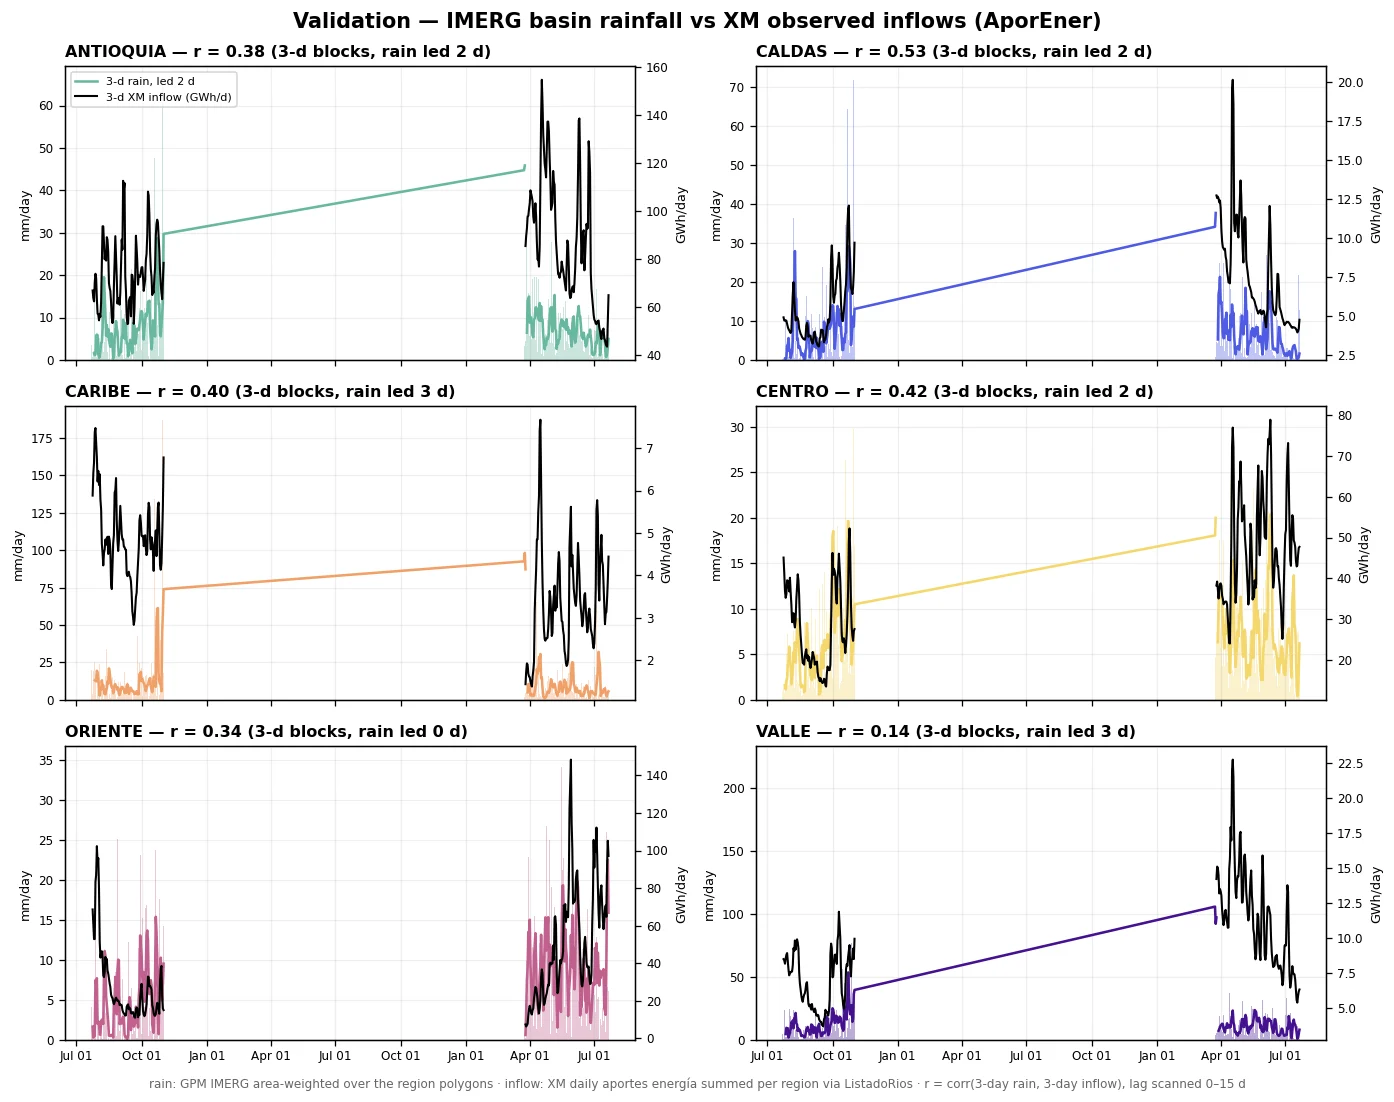
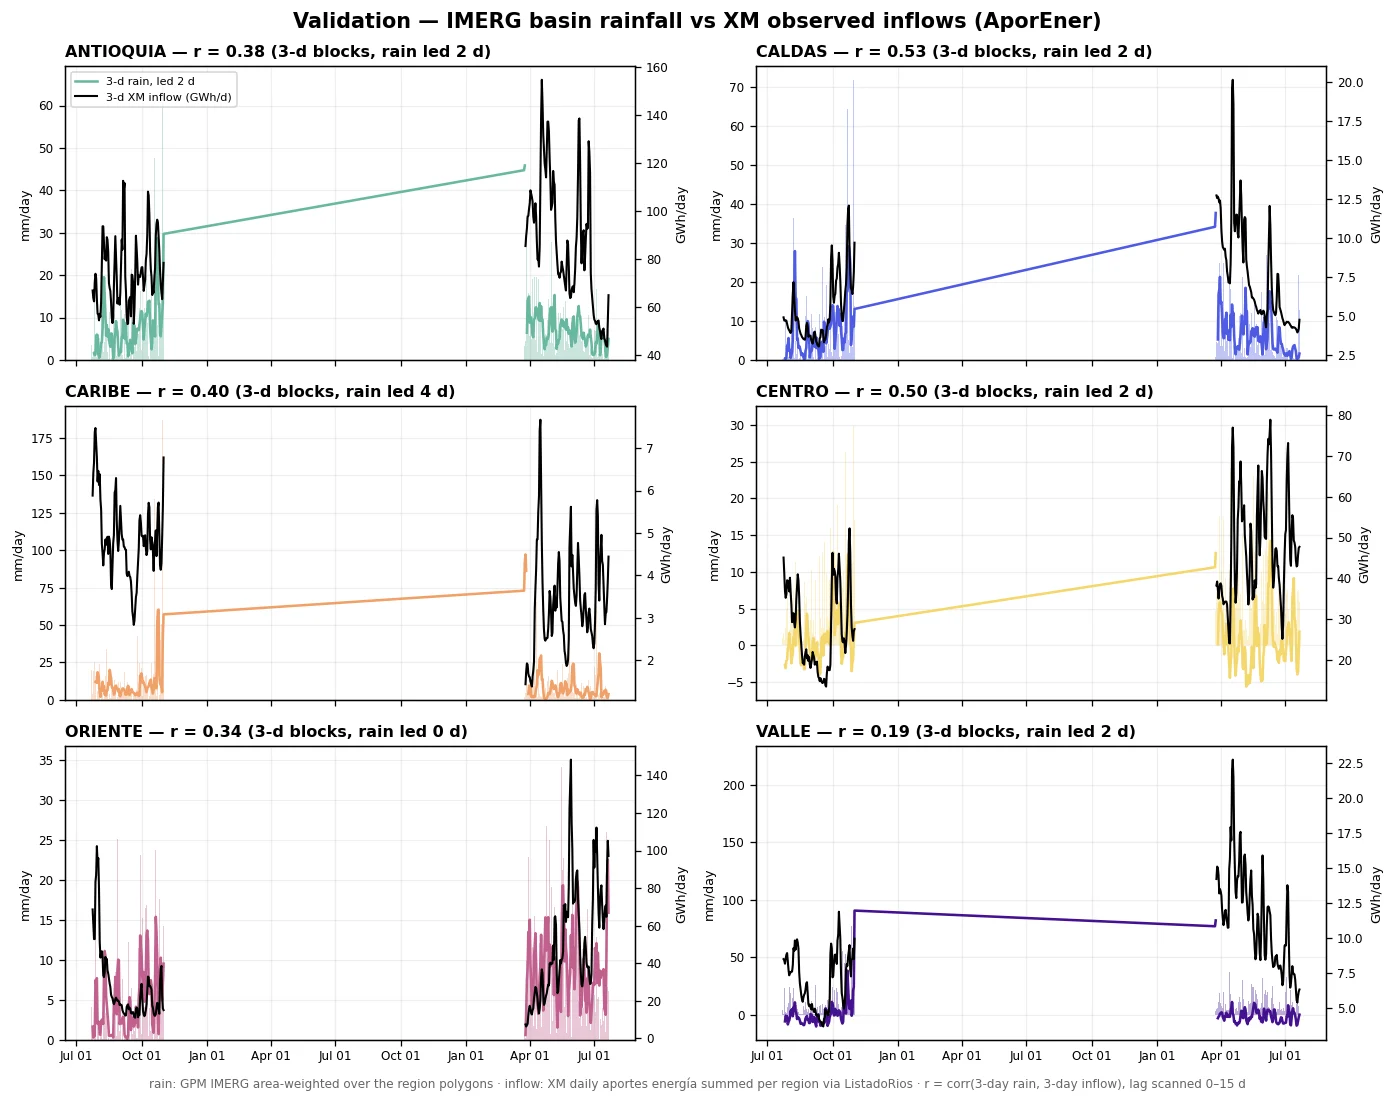
Colombia hydro: terrain map + anomaly/burst validation variants
Topo underlay (NOAA DEM mosaic, hillshaded) behind the basins map.
Validation now tests raw vs seasonal-anomaly vs burst-threshold rain per
region: anomalies win Centro (0.42->0.50), raw wins the 2-season-limited
regions, and no burst threshold beats plain totals — no light-rain
dead-band detectable at 3-day scale yet.

diff --git a/colombia_hydro/index.html b/colombia_hydro/index.html
@@ -68,9 +68,9 @@ daily. Rain here today is turbine water in the coming weeks.</p>
 <div class="chips" id="chips"></div>
 
 <div class="cols">
-  <div class="panel"><img src="xm_regions_map.webp?v=202607231058"
+  <div class="panel"><img src="xm_regions_map.webp?v=202607231114"
     alt="Map of XM hydrological regions built from IDEAM subzonas"></div>
-  <div class="panel"><img src="xm_regions_departments.webp?v=202607231058"
+  <div class="panel"><img src="xm_regions_departments.webp?v=202607231114"
     alt="Department-scale display view of the XM regions with true basins outlined">
     <p class="note" style="margin:8px 4px 2px">Two views of the same regions: the
     <b>contributing basins</b> (left — used for all rainfall averaging on this page) and the
@@ -81,6 +81,14 @@ daily. Rain here today is turbine water in the coming weeks.</p>
 <h2>Basin rainfall, daily</h2>
 <div class="panel"><img src="/assets/sst/colombia_region_rain.webp"
   alt="Daily basin rainfall per XM region vs climatology"></div>
+
+<h2>The terrain that makes the system</h2>
+<p class="note">The same basins over elevation: all three cordilleras and both great
+valleys are visible, and the dams cluster exactly where rivers drop off the ranges —
+the eastern slope above the llanos (Oriente), the Magdalena's canyon exits (Centro),
+and Antioquia's dissected plateau.</p>
+<div class="panel"><img src="xm_regions_topo.webp?v=202607231116"
+  alt="XM hydro regions over shaded terrain"></div>
 
 <h2>The regions</h2>
 <p class="note">Membership exactly as returned by XM's public API (<code>ListadoRios</code>);
@@ -106,19 +114,22 @@ department-scale areas, but only these catchments actually convert rainfall into
 </div>
 
 <h2>Validation — does basin rain predict XM's measured inflows?</h2>
-<p class="note">3-day rainfall totals vs 3-day inflow-energy totals (<code>AporEner</code>, XM API, summed
-per region), cross-correlated at 0–15-day lags; sums never straddle gaps in the partial
-IMERG backfill. Lags are physically sensible — steep cordillera catchments respond within
-days, the Sinú and mid-Cauca in ~2–3. Inflow also carries baseflow memory, and <b>Valle's
-Salvajina series is regulation-dominated</b> (upstream operations, not rain, set much of
-its day-to-day inflow), so its correlation is structurally low. Current record
-(two seasons, backfill still extending): <b>Antioquia r=0.38 (2d) · Caldas r=0.53 (2d) · Caribe r=0.40 (3d) · Centro r=0.42 (2d) · Oriente r=0.34 (0d) · Valle r=0.14 (3d)</b>.</p>
-<div class="panel"><img src="validation_rain_vs_inflow.webp?v=202607231106"
+<p class="note">3-day rainfall totals vs 3-day inflow-energy totals (<code>AporEner</code>, XM API),
+cross-correlated at 0–15-day lags, in three flavours per region: <i>raw</i>, <i>anomaly</i>
+(both series minus their seasonal normals), and <i>burst</i> (rain above a fitted baseline
+threshold — testing whether steady light rain just holds soil/evap steady state while only
+downpours move inflow). Verdict so far: <b>anomalies win for Centro</b> (r 0.42→0.50 — the
+seasonal cycle was masking real coupling) and help Valle slightly; raw wins for
+Antioquia/Caldas/Oriente (two seasons is thin for anomaly fits); and <b>the burst threshold
+never beats a plain total</b> — at 3-day scale these basins convert rain roughly linearly,
+with no detectable light-rain dead-band yet. <b>Valle's Salvajina series remains
+regulation-dominated</b>. Best per region: <b>Antioquia r=0.38 (raw, 2d) · Caldas r=0.53 (raw, 2d) · Caribe r=0.40 (burst>1mm, 4d) · Centro r=0.50 (anom, 2d) · Oriente r=0.34 (raw, 0d) · Valle r=0.19 (anom, 2d)</b>.</p>
+<div class="panel"><img src="validation_rain_vs_inflow.webp?v=202607231116"
   alt="Validation: IMERG basin rainfall vs XM observed inflows per region"></div>
 <p class="note" style="margin-top:14px">The same relationship as scatter — every dot is one
 3-day block (rain shifted by the region's best lag). The slope is the region's effective
 rainfall-to-energy conversion; Valle's cloud shows the regulation flattening.</p>
-<div class="panel"><img src="validation_scatter.webp?v=202607231106"
+<div class="panel"><img src="validation_scatter.webp?v=202607231116"
   alt="Scatter: 3-day basin rain vs 3-day XM inflow per region"></div>
 
 <h2>Data downloads</h2>

diff --git a/scripts/sst/validate_region_rain.py b/scripts/sst/validate_region_rain.py
@@ -118,24 +118,51 @@ def main() -> int:
             return out
 
         r3, i3 = roll3(rr), roll3(np.where(ok, ii, np.nan))
-        # lag scan: 3-day rain ending at t-lag vs 3-day inflow ending at t
-        best = (0, 0.0)
-        for lag in range(0, 16):
-            rs = np.roll(r3, lag); rs[:lag] = np.nan
-            m = np.isfinite(rs) & np.isfinite(i3) & (np.roll(seg_id, lag) == seg_id)
-            if m.sum() > 30:
-                c = float(np.corrcoef(rs[m], i3[m])[0, 1])
-                if c > best[1]:
-                    best = (lag, c)
-        k, c = best
-        sm = np.roll(r3, k); sm[:k] = np.nan
-        sm = sm / 3.0                                   # back to mm/day for the plot
-        scatter[reg] = (sm, i3 / 3.0, k, c)
-        summary[reg] = dict(best_lag_days=k, corr=round(c, 3),
+        cl3 = roll3(np.array(rain[reg]["clim"], float))
+
+        # inflow seasonal normal: harmonic (mean+annual+semiannual) fit on the
+        # available record, so anomalies test rain-inflow coupling WITHOUT the
+        # shared seasonal cycle inflating r
+        doy = np.array([d.timetuple().tm_yday for d in dts], float)
+        w = 2 * np.pi * doy / 365.25
+        X = np.column_stack([np.ones_like(w), np.cos(w), np.sin(w),
+                             np.cos(2 * w), np.sin(2 * w)])
+        fin = np.isfinite(i3)
+        coef, *_ = np.linalg.lstsq(X[fin], i3[fin], rcond=None)
+        ia3 = i3 - X @ coef
+
+        def scan(xs, ys):
+            best = (0, 0.0)
+            for lag in range(0, 16):
+                xr_ = np.roll(xs, lag); xr_[:lag] = np.nan
+                m = np.isfinite(xr_) & np.isfinite(ys) & (np.roll(seg_id, lag) == seg_id)
+                if m.sum() > 30:
+                    cc = float(np.corrcoef(xr_[m], ys[m])[0, 1])
+                    if cc > best[1]:
+                        best = (lag, cc)
+            return best
+
+        variants = {"raw": (r3, i3), "anom": (r3 - cl3, ia3)}
+        bT, bB = 0, (0, 0.0)
+        for T in range(1, 9):                       # burst: rain above baseline
+            e3 = roll3(np.maximum(rr - T, 0.0))
+            lg, cc = scan(e3, ia3)
+            if cc > bB[1]:
+                bT, bB = T, (lg, cc)
+        variants[f"burst>{bT}mm"] = (roll3(np.maximum(rr - bT, 0.0)), ia3)
+        results = {name: scan(x, y) for name, (x, y) in variants.items()}
+        bname = max(results, key=lambda n: results[n][1])
+        k, c = results[bname]
+        xs, ys = variants[bname]
+        sm = np.roll(xs, k); sm[:k] = np.nan
+        sm = sm / 3.0
+        print(f"  {reg}: " + "  ".join(
+            f"{n} r={results[n][1]:.2f}@{results[n][0]}d" for n in results), flush=True)
+        scatter[reg] = (sm, ys / 3.0, k, c, bname)
+        summary[reg] = dict(best_lag_days=k, corr=round(c, 3), variant=bname,
+                            all_variants={n: dict(lag=results[n][0], r=round(results[n][1], 3)) for n in results},
                             n_days=int(ok.sum()),
                             inflow_mean_gwh=round(float(np.nanmean(ii)), 2))
-        print(f"  {reg}: r={c:.2f} at lag {k} d (3-d sums) "
-              f"(mean inflow {np.nanmean(ii):.1f} GWh/d)", flush=True)
 
         ax2 = ax.twinx()
         ax.bar(dts, rr, width=1.0, color=COLORS[reg], alpha=0.35, lw=0)
@@ -166,7 +193,7 @@ def main() -> int:
     # scatter view: the correlation itself, one dot per 3-day block
     fig2, axs2 = plt.subplots(2, 3, figsize=(12.6, 8.2))
     for ax, reg in zip(axs2.ravel(), ORDER):
-        x, y, k, c = scatter[reg]
+        x, y, k, c, bname = scatter[reg]
         m = np.isfinite(x) & np.isfinite(y)
         ax.scatter(x[m], y[m], s=14, color=COLORS[reg], alpha=0.55,
                    edgecolors="none")
@@ -174,10 +201,10 @@ def main() -> int:
             b, a = np.polyfit(x[m], y[m], 1)
             xs = np.linspace(np.nanmin(x[m]), np.nanmax(x[m]), 50)
             ax.plot(xs, a + b * xs, color="0.2", lw=1.4, ls="--")
-        ax.set_title(f"{reg} — r = {c:.2f} · rain leads {k} d · n = {int(m.sum())}",
+        ax.set_title(f"{reg} — {bname} r = {c:.2f} · lead {k} d · n = {int(m.sum())}",
                      fontsize=9.5, fontweight="bold", loc="left")
-        ax.set_xlabel("3-day basin rain (mm/day avg)", fontsize=8)
-        ax.set_ylabel("3-day inflow (GWh/day avg)", fontsize=8)
+        ax.set_xlabel(f"3-day rain [{bname}] (mm/day avg)", fontsize=8)
+        ax.set_ylabel("3-day inflow anom (GWh/day)" if bname != "raw" else "3-day inflow (GWh/day avg)", fontsize=8)
         ax.tick_params(labelsize=7.5); ax.grid(alpha=0.22)
     fig2.suptitle("3-day rain vs 3-day inflow — each dot is one 3-day block",
                   fontsize=12.5, fontweight="bold")

diff --git a/scripts/sst/render_hydro_maps.py b/scripts/sst/render_hydro_maps.py
@@ -152,10 +152,61 @@ def departments_map(regions):
     plt.close(fig)
 
 
+def topo_map(regions):
+    """Basins over shaded terrain (NOAA DEM mosaic export, ~30 arc-sec)."""
+    import numpy as np
+    from matplotlib.colors import LightSource, LinearSegmentedColormap
+    from PIL import Image as PILImage
+    tif = PILImage.open(Path.home() / "colombia_hydro" / "raw" / "etopo_colombia.tif")
+    z = np.array(tif, dtype="float32")
+    ext = (-80.5, -69.5, -5.5, 13.5)                    # matches the export bbox
+    ls = LightSource(azdeg=315, altdeg=40)
+    terrain = LinearSegmentedColormap.from_list("land", [
+        (0.00, "#4a7a3f"), (0.12, "#7aa05a"), (0.30, "#c9bf7e"),
+        (0.55, "#a8845c"), (0.78, "#8a7466"), (1.00, "#f2efe9")])
+    zl = np.clip(z, 0, None)
+    rgb = ls.shade(zl, cmap=terrain, blend_mode="soft",
+                   vmin=0, vmax=4800, vert_exag=0.12, dx=900, dy=900)
+    rgb[z <= 0] = (0.78, 0.86, 0.92, 1.0)               # sea
+    fig = plt.figure(figsize=(9.8, 11.5))
+    ax = plt.axes(projection=ccrs.PlateCarree())
+    ax.set_extent([-79.8, -70.4, 0.3, 10.3])
+    ax.imshow(rgb, origin="upper", extent=ext, transform=ccrs.PlateCarree(),
+              interpolation="bilinear", zorder=1)
+    ax.coastlines("50m", lw=0.7, color="0.25")
+    ax.add_feature(cfeature.BORDERS.with_scale("50m"), lw=0.6, color="0.3")
+    for name in ["ANTIOQUIA", "CENTRO", "ORIENTE", "VALLE", "CARIBE", "CALDAS"]:
+        rr = regions[regions["name"] == name].iloc[0]
+        ax.add_geometries([rr.geometry], ccrs.PlateCarree(),
+                          facecolor=COLORS[name], alpha=0.28,
+                          edgecolor=COLORS[name], linewidth=2.0, zorder=3)
+    _magdalena(ax)
+    plants = json.load(open(HERE / "colombia_hydro_plants.json"))["plants"]
+    ax.scatter([p["lon"] for p in plants], [p["lat"] for p in plants],
+               s=[18 + p["mw"] / 45 for p in plants], c="k", marker="^", zorder=6)
+    for name, (lx, ly) in LABEL.items():
+        axx, ayy = ARROW[name]
+        ax.annotate(name, xy=(axx, ayy), xytext=(lx, ly),
+                    fontsize=9.5, fontweight="bold", ha="center", va="center",
+                    color=COLORS[name], zorder=7,
+                    path_effects=[mpe.withStroke(linewidth=3.0, foreground="white")],
+                    arrowprops=dict(arrowstyle="-", color=COLORS[name], lw=1.2))
+    gl = ax.gridlines(draw_labels=True, lw=0.2, ls=":", color="0.5")
+    gl.top_labels = gl.right_labels = False
+    gl.xlabel_style = gl.ylabel_style = {"size": 7}
+    ax.set_title("XM hydrological regions over terrain\n"
+                 "the cordilleras carve the basins — dams sit where rivers drop off the ranges",
+                 fontsize=10.5, fontweight="bold")
+    fig.savefig(OUTDIR / "xm_regions_topo.webp", dpi=125, bbox_inches="tight",
+                facecolor="white")
+    plt.close(fig)
+
+
 def main():
     regions = gpd.read_file(HERE / "colombia_hydro_regions.geojson")
     basins_map(regions)
     departments_map(regions)
+    topo_map(regions)
     # re-stamp the page's cache-busters so browsers refetch the new renders
     import re
     from datetime import datetime, timezone
@@ -163,7 +214,7 @@ def main():
     cb = datetime.now(timezone.utc).strftime("%Y%m%d%H%M")
     page.write_text(re.sub(r"(xm_regions_[a-z]+\.webp)\?v=\w+", rf"\1?v={cb}",
                            page.read_text()))
-    print("wrote xm_regions_map.webp + xm_regions_departments.webp (+ page cache-bust)")
+    print("wrote xm_regions_{map,departments,topo}.webp (+ page cache-bust)")
 
 
 if __name__ == "__main__":
